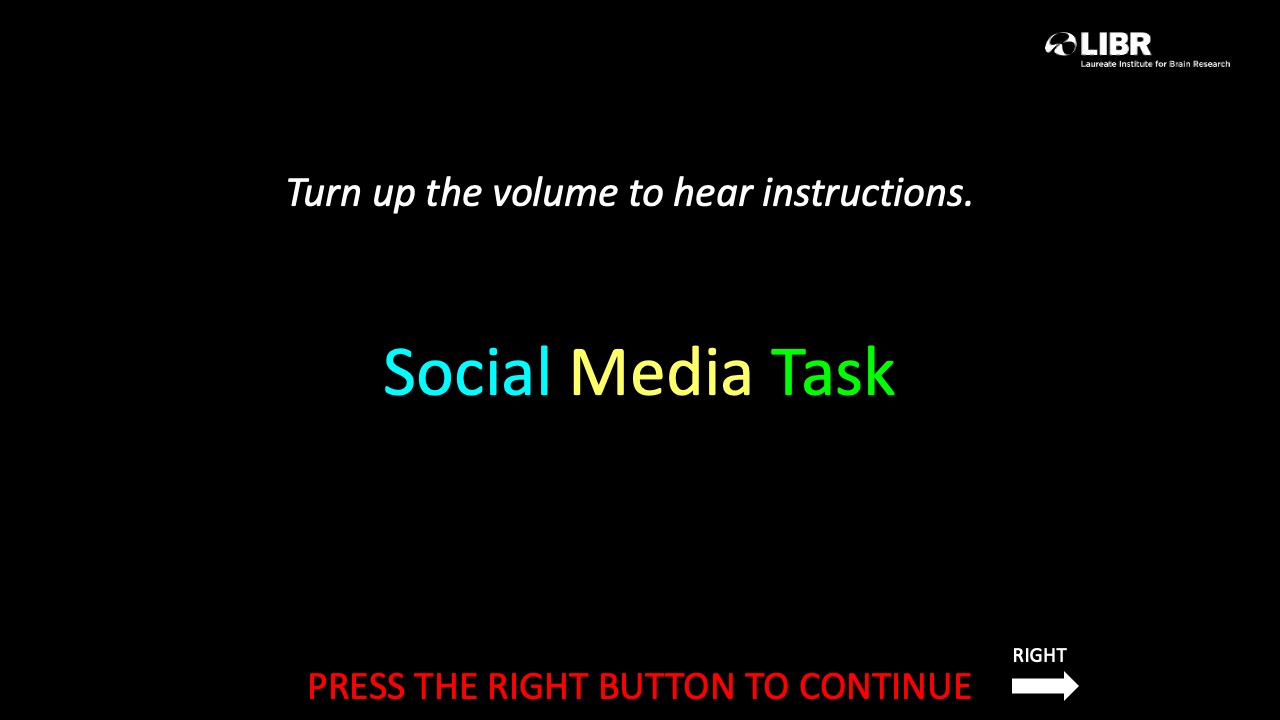
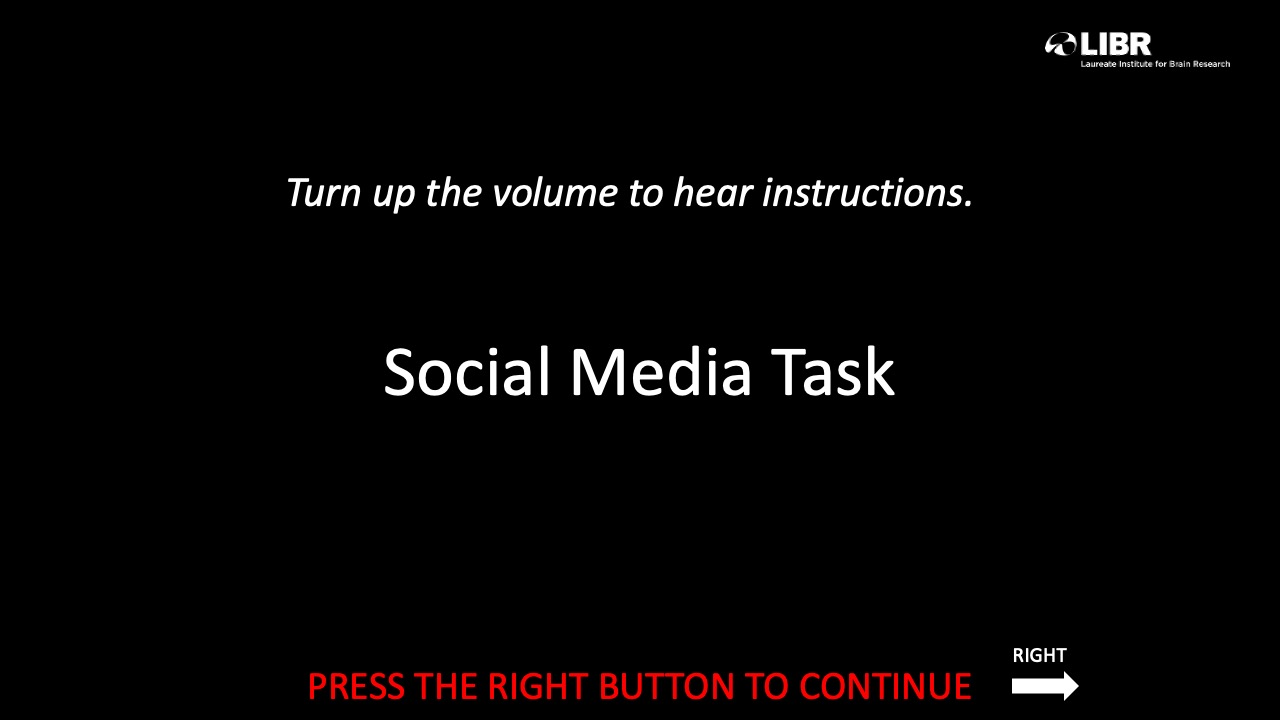
updated instructions for sm task

Changed region(s): [[0.2812, 0.4583, 0.7188, 0.55]]

diff --git a/public/js/tasks/social_media/social_media.js b/public/js/tasks/social_media/social_media.js
@@ -249,7 +249,7 @@ dialogCancelScheduler.add(quitPsychoJS, '', false);
 var resources = [
 	{ name: 'example_play.xls', path: '/js/tasks/social_media/example_play.xls' },
 	{ name: 'role_reversal_shedule.xls', path:'/js/tasks/social_media/role_reversal_shedule.xls' },
-	{ name: '/js/tasks/social_media/media/instructions/Slide25.jpeg', path: '/js/tasks/social_media/media/instructions/Slide25.jpeg'},
+	{ name: '/js/tasks/social_media/media/instructions/Slide26.jpeg', path: '/js/tasks/social_media/media/instructions/Slide26.jpeg'},
 	{ name: 'role_reversal_instruct_schedule.csv', path: '/js/tasks/social_media/media/role_reversal_instruct_schedule.csv'},
 	{ name: 'logo.png', path: '/js/tasks/social_media/media/mice.png' },
 	{ name: 'home.png', path: '/js/tasks/social_media/media/home.png' },
